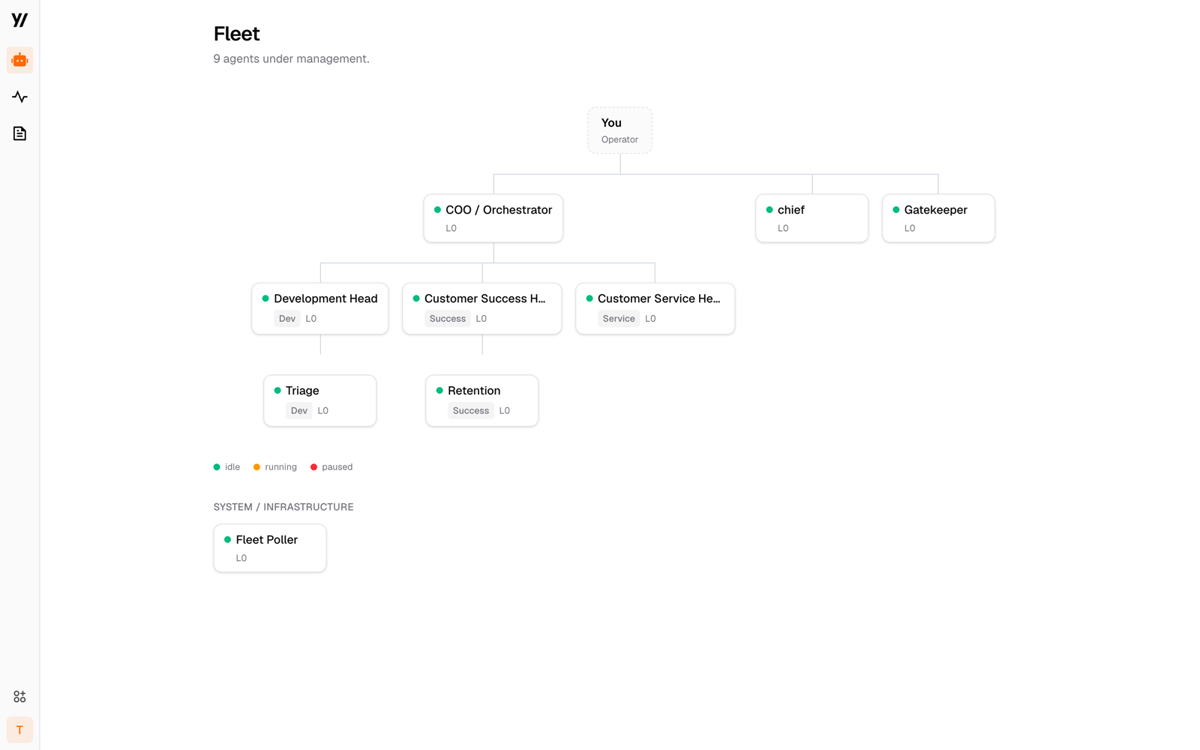
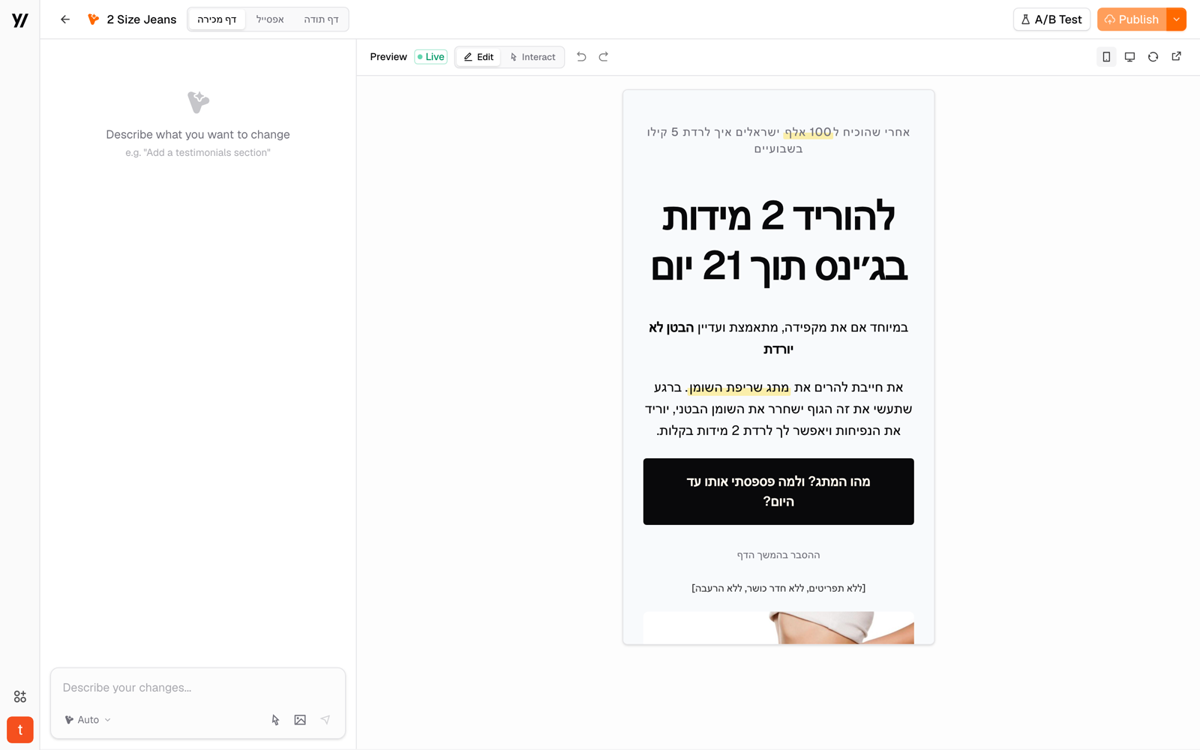
fix(media): platform showcase leads with the real builders
Feedback: the showcase used the list/steps views, not the actual builders.
Swap in the two differentiators, captured clean from the live hub:
- AI funnel editor — AI chat + live sales-page preview (A/B test, publish)
- automation builder — visual trigger → webhook → exit flow canvas
  (uses a production automation, POST → broadcast.stayyoung.live, not localhost)

Gallery: AI funnel editor, automation builder, AI ops fleet, app suite.
Card/hero slide now runs editor → automation → fleet. Dropped the weaker
funnel-steps and automations-list stills.

diff --git a/lib/projects.ts b/lib/projects.ts
@@ -178,23 +178,23 @@ export const projects: Project[] = [
     ],
     // Media re-captured 2026-07-19 from the live hub (hub.stayyoung.live) in
     // MEMBER/operator view — dev "Report Bug / Suggest Feature" buttons hidden,
-    // no customer-PII screens (subscriptions/finance/billing/meet skipped). The
-    // card + hero play a slide carousel (AI fleet → app suite → funnel builder) —
-    // a horizontal slide at a *fixed* zoom, which reads as "flipping through the
-    // platform." New `platform-loop` filenames cache-bust the earlier app-loop.
-    // Screens lead with structure/breadth (the business runs on subscriptions, so
-    // the funnel/ad numbers are sparse) — the distinctive one is the AI ops fleet.
+    // no customer-PII screens (subscriptions/finance/billing/meet skipped). Leads
+    // with the two builders (they're the differentiators): the AI funnel editor
+    // (chat + live preview) and the visual automation canvas. The automation shot
+    // uses a production automation (POST → broadcast.stayyoung.live), NOT a
+    // localhost/test one. Card + hero slide through editor → automation → fleet —
+    // a horizontal slide at a *fixed* zoom ("flipping through the platform").
     screenshots: [
+      { src: "/work/stayyoung-platform/ai-funnel-editor.png", alt: "StayYoung platform — the AI funnel editor: describe a change in chat and see it applied live on the sales page", frame: "browser", ready: true },
+      { src: "/work/stayyoung-platform/automation-builder.png", alt: "StayYoung platform — the automation builder: a visual trigger → webhook → exit workflow on a flow canvas", frame: "browser", ready: true },
       { src: "/work/stayyoung-platform/fleet.png", alt: "StayYoung platform — the AI ops fleet: an org-chart of autonomous agents (COO, dev, success, service) running the business", frame: "browser", ready: true },
       { src: "/work/stayyoung-platform/launcher.png", alt: "StayYoung platform — the app suite: funnels, AI, finance, and bookings in one place", frame: "browser", ready: true },
-      { src: "/work/stayyoung-platform/funnel-builder-v2.png", alt: "StayYoung platform — the funnel builder (sales page → order bumps → upsell → thank-you)", frame: "browser", ready: true },
-      { src: "/work/stayyoung-platform/automations-v2.png", alt: "StayYoung platform — the automations engine (dunning, retries, cancellation flows)", frame: "browser", ready: true },
     ],
     preview: {
       mp4: "/work/stayyoung-platform/platform-loop.mp4",
       webm: "/work/stayyoung-platform/platform-loop.webm",
       poster: "/work/stayyoung-platform/platform-loop-poster.png",
-      alt: "The StayYoung platform — sliding through the AI ops fleet, the app suite, and the funnel builder",
+      alt: "The StayYoung platform — sliding through the AI funnel editor, the automation builder, and the AI ops fleet",
     },
   },
   {